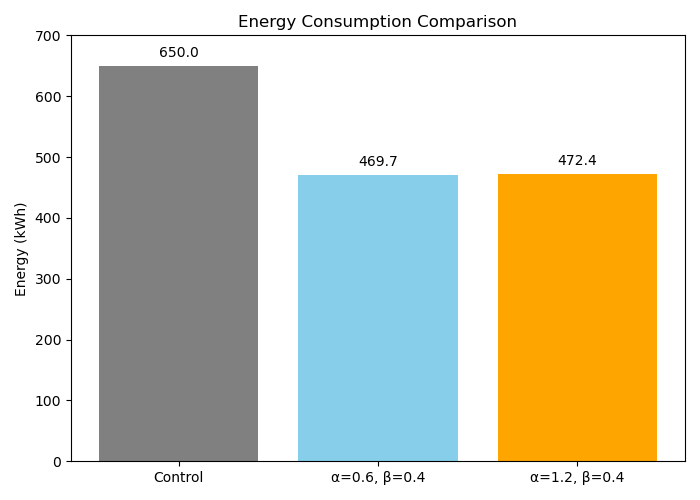
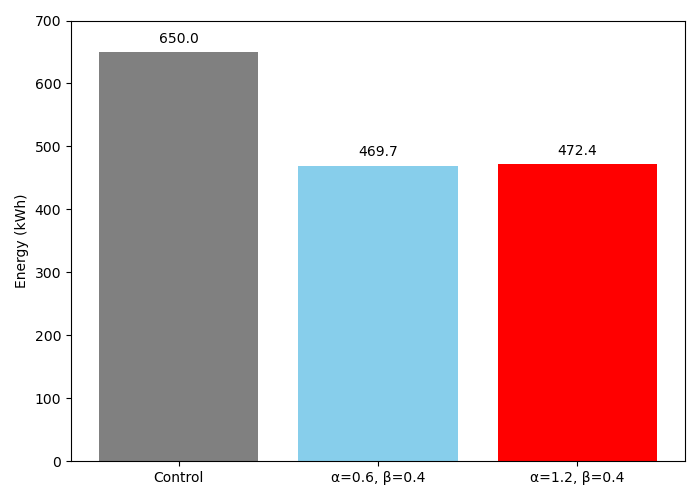
Updating state, action, reward of model.

diff --git a/utils/network_oran.py b/utils/network_oran.py
@@ -356,7 +356,7 @@ class NetworkSimulation:
             if ru.status():
                 self.total_energy_consumption += (ru.get_processing_load()*(E_RU_max + E_RU_idle) + E_RU_idle)*(1/3600)
 
-    def get_total_energy_consumption(self):
+    def get_total_energy_consumption(self)->float:
         return self.total_energy_consumption
 
     def update_statistics_display(self, _: int):

diff --git a/test/plot_experiment_results.py b/test/plot_experiment_results.py
@@ -6,9 +6,8 @@ values = [650, 469.7, 472.4]
 
 # Plot
 plt.figure(figsize=(7, 5))
-bars = plt.bar(labels, values, color=['gray', 'skyblue', 'orange'])
+bars = plt.bar(labels, values, color=['gray', 'skyblue', 'red'])
 plt.ylabel('Energy (kWh)')
-plt.title('Energy Consumption Comparison')
 plt.ylim(0, 700)
 
 # Annotate bars

diff --git a/README.md b/README.md
@@ -3,6 +3,11 @@
 **Objective:** Minimize the number of active radio units and distributed units, assign RUs to DUs.
 
 **Topology:** We have a mesh topology between the RUs and DUs, i.e., any RU can have any DU perform its higher PHY functions. There are many RUs connected to one DU. One RU cannot be connected to more than one DU.
+
+**TODO:** 
+- Implement mutli-input neural network for the DQN
+- Use graph neural network (the RU-DU associations are a bipartite graph, keeping this information is important)
+- Implement ASMs in action space, a high UE count would make switching off components infeasible
 ## Model
 A [stochastic Q-learning model](https://arxiv.org/abs/2405.10310) is used to solve this problem, because it can have a large discrete action space.
 
@@ -63,6 +68,24 @@ p^{(t)}_{i,j}=\text{propagation delay}_\text{DL} + \text{scheduling delay}_\text
 from RU $\mathcal{R}_i$ to DU $\mathcal{D}_j$.
 
 At time $t$, define a processing load vector $\mathcal{Z}^{(t)} \in \mathbb{R}^L$, where $\mathcal{Z}_i$ is the overall CPU utilization of du $d_i$.
+
+Finally, at time $t$, define the $\mathcal{N} \times L$ biadjacency matrix $\mathcal{Y}$, where
+
+```math
+\mathcal{Y}=\begin{bmatrix}
+y_{1,1} & y_{1,2} & \cdots & y_{1,L} \\
+y_{2,1} & y_{2.2} & \cdots & y_{2,L} \\
+\vdots & \vdots & \ddots & \vdots \\
+y_{\mathcal{N},1} & y_{\mathcal{N},2} & \cdots & y_{\mathcal{N},L}
+\end{bmatrix}
+```
+
+```math
+y_{i,j} = \begin{cases}
+1 & \text{RU } i\text{ is associated with DU } j \\
+0 & \text{otherwise}
+\end{cases}
+```
 
 
 We represent our state with the vector $s^{(t)}$:
@@ -139,9 +162,16 @@ C_\text{RU}(d_i) \triangleq \text{number of RUs connected to DU } d_i \in \mathc
 ```math
 R(u_i) \triangleq \text{RU serving UE }u_i
 ```
+
+Additionally, define the term $\mathcal{W}$,
+```math
+\mathcal{W} = \frac{-80|\mathcal{U}|+|\mathcal{D}|+|\mathcal{R}_\text{sleep}|+|\mathcal{D}_\text{sleep}|}{(1-c)|\mathcal{R}|}
+```
+
+
 At time $t$, define $\mathfrak{R}$ to be our reward function:
 ```math
-\mathfrak{R}^{(t)}=\alpha(\sum_{u_i\in\mathcal{U}}\mathfrak{R}^{(t)}_\text{RSRP}(u_i)+\sum_{d_i\in\mathcal{D}}\mathfrak{R}^{(t)}_\text{DU capacity}(d_i)+\sum_{r_i\in\mathcal{R}}\mathfrak{R}^{(t)}_\text{RU capacity}(r_i) + |\mathcal{R}_\text{sleep}| + |\mathcal{D}_\text{sleep}|)-\beta(\mu_\text{fronthaul delay})
+\mathfrak{R}^{(t)}=\frac{\alpha(\sum_{u\in\mathcal{U}}\mathfrak{R}^{(t)}_\text{RSRP}(u)+\sum_{d\in\mathcal{D}}\mathfrak{R}^{(t)}_\text{DU capacity}(d)+\sum_{r\in\mathcal{R}}\mathfrak{R}^{(t)}_\text{RU capacity}(r) + |\mathcal{R}_\text{sleep}| + |\mathcal{D}_\text{sleep}|)-\beta\mathcal{W}\sum_{r\in\mathcal{R}}\delta(r)}{2W}
 ```
 where
 ```math
